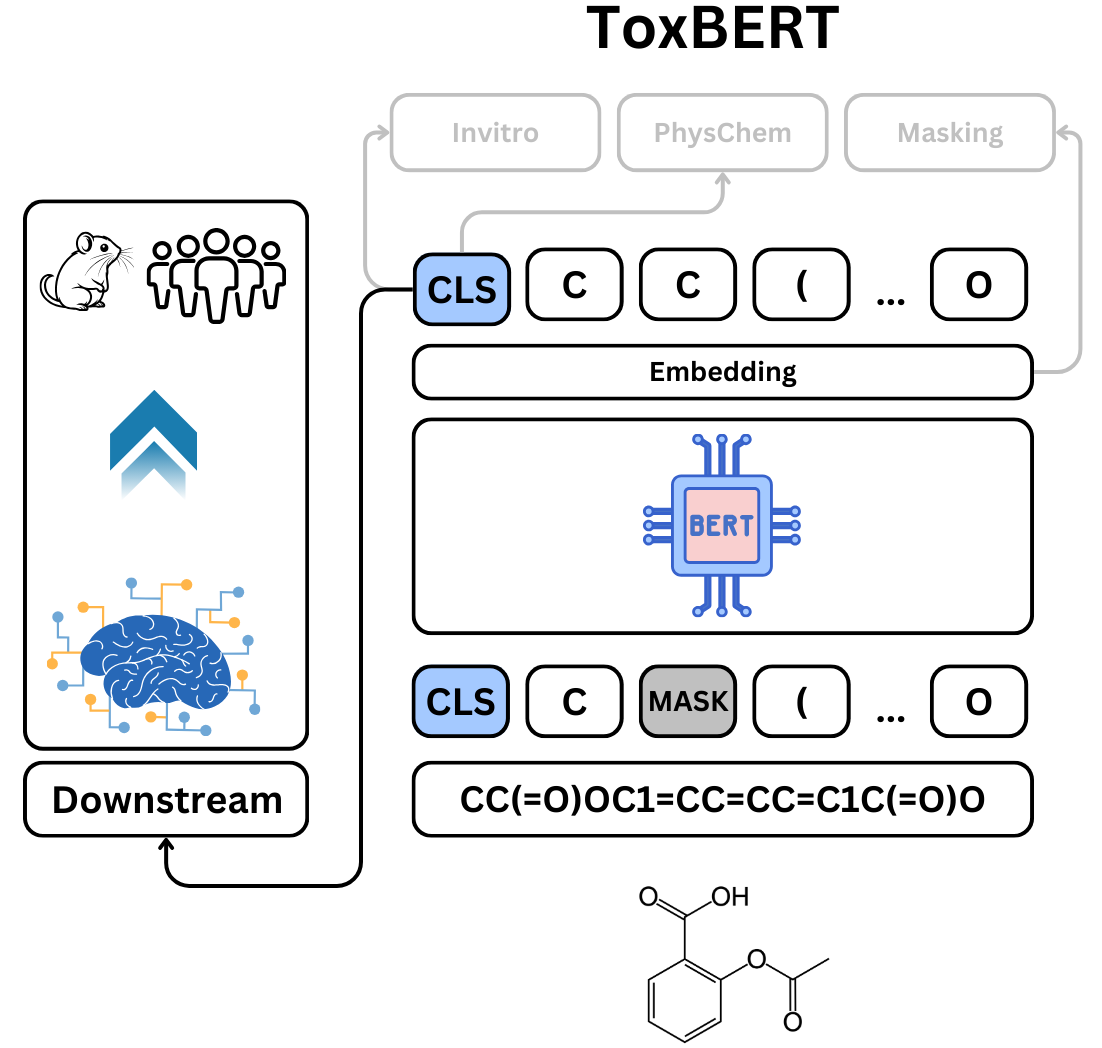
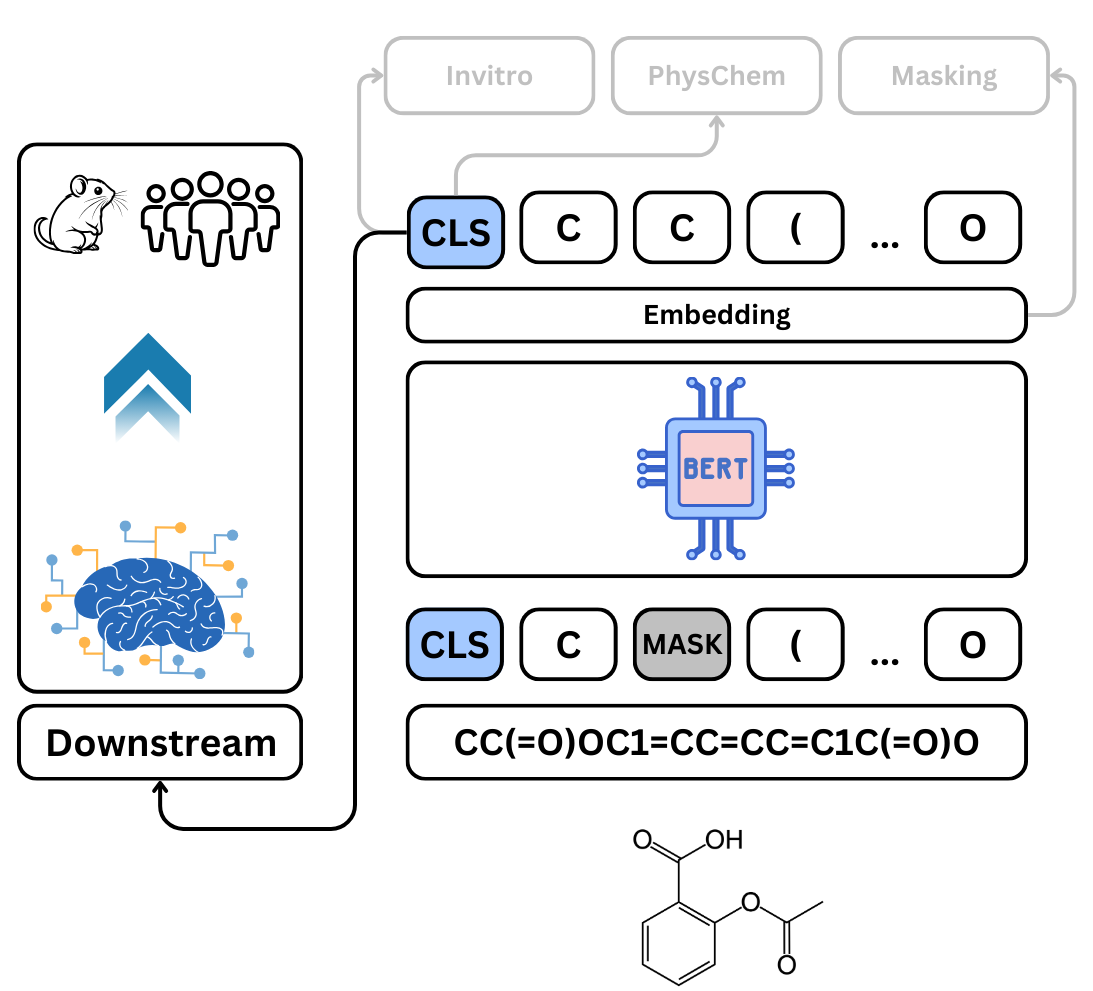
new branch

Changed region(s): [[0.0, 0.0, 0.9954, 0.8779], [0.0933, 0.333, 0.1866, 0.4844], [0.5599, 0.9082, 0.7466, 0.999]]

diff --git a/README.md b/README.md
@@ -1,9 +1,9 @@
-# ToxBERT - Modeling DILI by pretraining BERT on invitro data
+# VitroBERT - Modeling DILI by pretraining BERT on invitro data
 
-This repository contains the code of ToxBERT, a pretrained BERT based model with the ability to use biological and chemical data during pretraining stage
+This repository contains the code of VitroBERT, a pretrained BERT based model with the ability to use biological and chemical data during pretraining stage
 
 <p align="center">
-  <img src="ToxBERT.png" width="50%" alt="ToxBERT Architecture"/>
+  <img src="ToxBERT.png" width="50%" alt="VitroBERT Architecture"/>
 </p>
 
 ## Table of Contents
@@ -20,19 +20,19 @@ This repository contains the code of ToxBERT, a pretrained BERT based model with
 
 1. Clone the repository:
 ```bash
-git clone https://github.com/aidd-msca/ToxBERT.git
-cd ToxBERT
+git clone https://github.com/aidd-msca/VitroBERT.git
+cd VitroBERT
 ```
 
 2. Create and activate a conda environment:
 ```bash
-conda create -y -q -n ToxBERT -c rdkit rdkit=2019.03.1.0 python=3.7.3
-conda activate ToxBERT
+conda create -y -q -n VitroBERT -c rdkit rdkit=2019.03.1.0 python=3.7.3
+conda activate VitroBERT
 ```
 if Aalto University (triton):
 ```bash
 module load mamba # specific to Aalto University (triton)
-source activate ToxBERT
+source activate VitroBERT
 ```
 
 3. Install dependencies:
@@ -50,7 +50,7 @@ The model requires two types of data:
 2. Fine-tuning data: Preclinical and Clinical data with binary labels
 
 ### Public data
-Download downstream and pretrianing data from [here](https://figshare.com/articles/dataset/ToxBERT_-_Pretraining_and_downstream_data/28692518) and place in the `data/` directory
+Download downstream and pretrianing data from [here](https://figshare.com/articles/dataset/VitroBERT_-_Pretraining_and_downstream_data/28692518) and place in the `data/` directory
 
 
 ### Data Format
@@ -143,7 +143,7 @@ Architecture details:
 
 ## Training the Model
 
-Use the following script to pretrain ToxBERT by using invitro data
+Use the following script to pretrain VitroBERT by using invitro data
 ```bash
 sbatch scripts/BERT_invitro_ADME_pretraining.sh \
     /path/to/invitro_data \
@@ -152,23 +152,12 @@ sbatch scripts/BERT_invitro_ADME_pretraining.sh \
     /molbert_100epochs
 ```
 
-## Pretraining by using public data
-```bash
-# Pretraining data can be downloaded from:
-https://figshare.com/articles/dataset/Pretraining_data/28334303
-```
-
-## Downstream data and ToxBERT Embeddings
-```bash
-https://figshare.com/articles/dataset/ToxBERT_-_Pretraining_and_downstream_data/28692518
-```
-
 ## Citation
 
 If you use this code in your research, please cite:
 ```bibtex
-@article{ToxBERT,
-    title={ToxBERT - Modeling DILI by pretraining BERT on invitro data},
+@article{VitroBERT,
+    title={VitroBERT - Modeling DILI by pretraining BERT on invitro data},
     author={Muhammad Arslan Masood, Samuel Kaski, Anamya Ajjolli Nagaraja, Katia Belaid, Natalie Mesens, Hugo Ceulemans, Dorota Herman, Markus Heinonen},
     journal={under review},
     year={2025}
